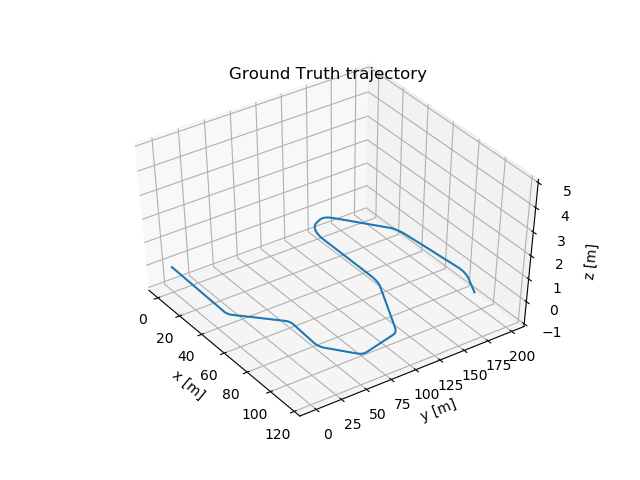
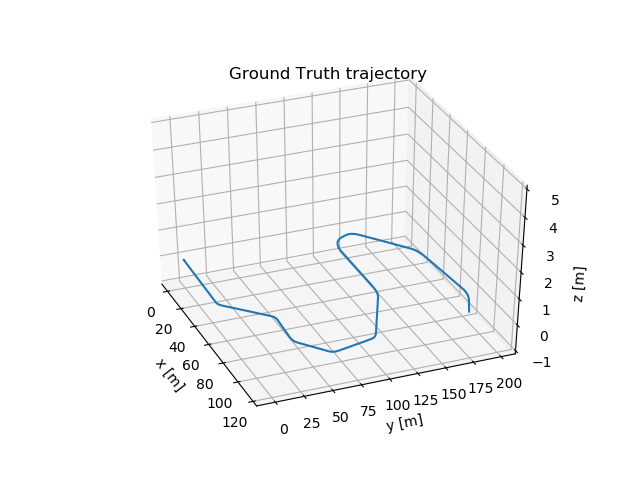
3rd_submit

diff --git a/ES-EKF/es_ekf.py b/ES-EKF/es_ekf.py
@@ -72,9 +72,9 @@ plt.show()
 ################################################################################################
 # Correct calibration rotation matrix, corresponding to Euler RPY angles (0.05, 0.05, 0.1).
 C_li = np.array([
-   [ 0.99376, -0.09722,  0.05466],
-   [ 0.09971,  0.99401, -0.04475],
-   [-0.04998,  0.04992,  0.9975 ]
+  [ 0.99376, -0.09722,  0.05466],
+  [ 0.09971,  0.99401, -0.04475],
+  [-0.04998,  0.04992,  0.9975 ]
 ])
 
 # Incorrect calibration rotation matrix, corresponding to Euler RPY angles (0.05, 0.05, 0.05).
@@ -96,11 +96,25 @@ lidar.data = (C_li @ lidar.data.T).T + t_i_li
 # most important aspects of a filter is setting the estimated sensor variances correctly.
 # We set the values here.
 ################################################################################################
-var_imu_f = 0.10
-var_imu_w = 0.25
-var_gnss  = 0.01
-var_lidar = 1.00
-
+#var_imu_f = 0.10
+#var_imu_w = 0.25
+#var_gnss  = 0.01
+#var_lidar = 1.00
+# Part 1
+# var_imu_f = 0.10
+# var_imu_w = 0.1
+# var_gnss  = 0.01
+# var_lidar = 1.00
+# Part 2
+# var_imu_f = 0.10
+# var_imu_w = 0.001
+# var_gnss  = 0.01
+# var_lidar = 100
+# Part 3
+var_imu_f = 0.01
+var_imu_w = 0.01
+var_gnss  = 10.
+var_lidar = 1.
 ################################################################################################
 # We can also set up some constants that won't change for any iteration of our solver.
 ################################################################################################
@@ -273,13 +287,13 @@ plt.show()
 ################################################################################################
 
 # Pt. 1 submission
-p1_indices = [9000, 9400, 9800, 10200, 10600]
-p1_str = ''
-for val in p1_indices:
-    for i in range(3):
-        p1_str += '%.3f ' % (p_est[val, i])
-with open('pt1_submission.txt', 'w') as file:
-    file.write(p1_str)
+# p1_indices = [9000, 9400, 9800, 10200, 10600]
+# p1_str = ''
+# for val in p1_indices:
+#     for i in range(3):
+#         p1_str += '%.3f ' % (p_est[val, i])
+# with open('pt1_submission.txt', 'w') as file:
+#     file.write(p1_str)
 
 # Pt. 2 submission
 # p2_indices = [9000, 9400, 9800, 10200, 10600]
@@ -291,10 +305,10 @@ with open('pt1_submission.txt', 'w') as file:
 #     file.write(p2_str)
 
 # Pt. 3 submission
-# p3_indices = [6800, 7600, 8400, 9200, 10000]
-# p3_str = ''
-# for val in p3_indices:
-#     for i in range(3):
-#         p3_str += '%.3f ' % (p_est[val, i])
-# with open('pt3_submission.txt', 'w') as file:
-#     file.write(p3_str)
+p3_indices = [6800, 7600, 8400, 9200, 10000]
+p3_str = ''
+for val in p3_indices:
+    for i in range(3):
+        p3_str += '%.3f ' % (p_est[val, i])
+with open('pt3_submission.txt', 'w') as file:
+    file.write(p3_str)
